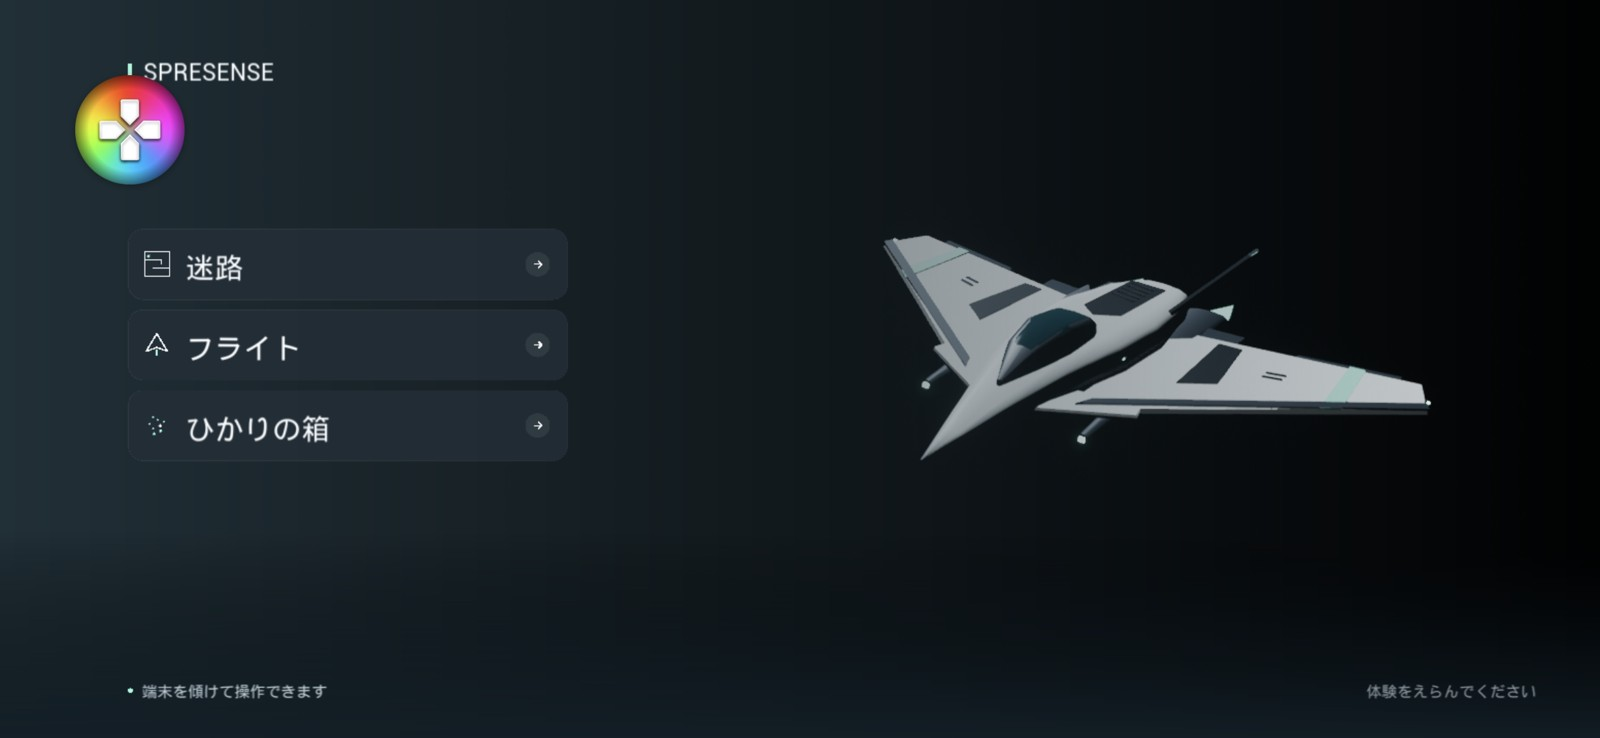
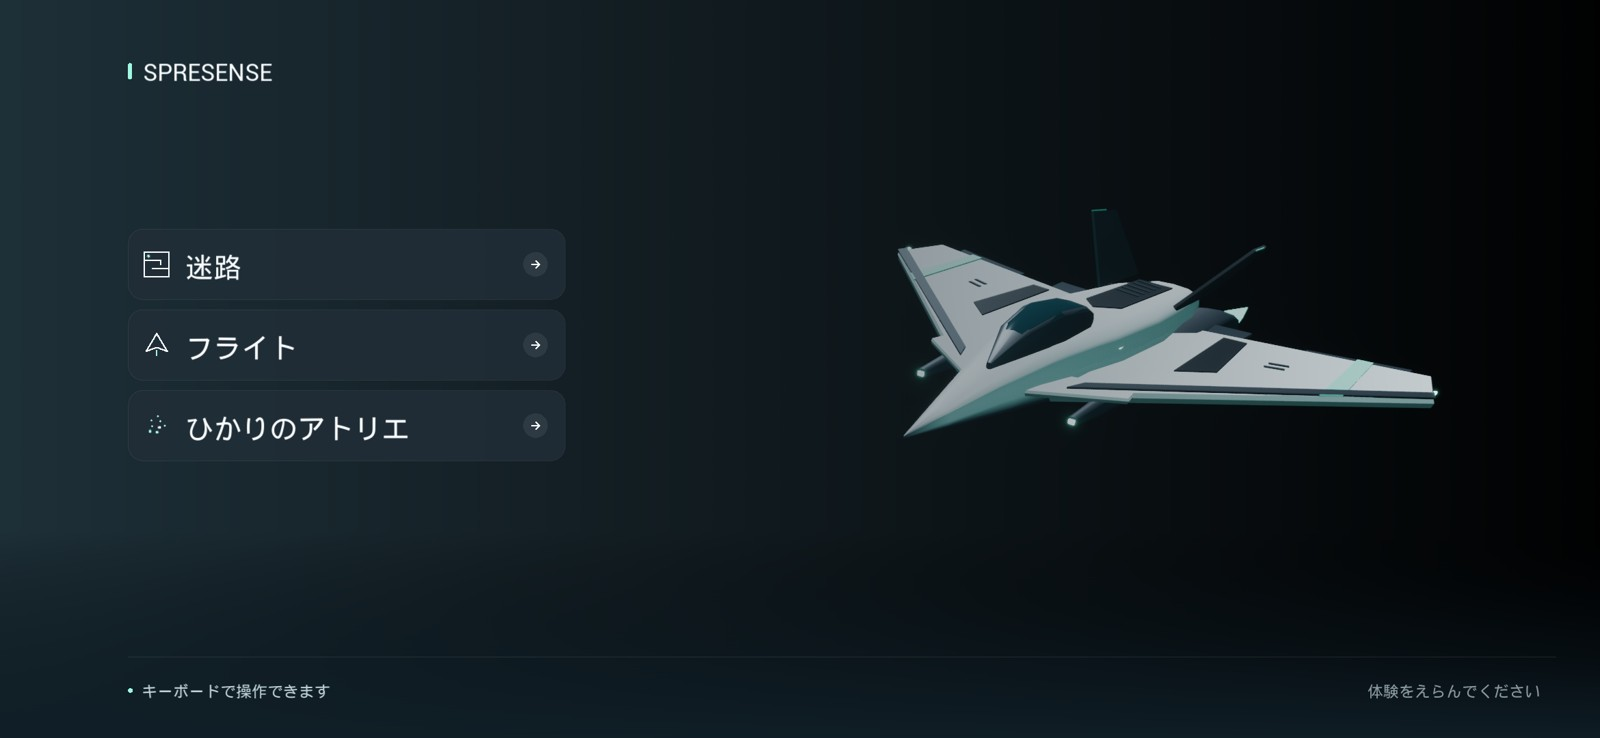
Rename light experience to Hikari Atelier and double default particle budget

diff --git a/Tools/ReviewLightBoxBenchmark.py b/Tools/ReviewLightBoxBenchmark.py
@@ -40,6 +40,6 @@ def main():
     for j in range(0,len(text),49):d.text((x+10,y+279+(j//49)*22),text[j:j+49],font=small,fill='#c7d0d8')
   im.save(sheets/f'{page+1:02d}.jpg',quality=92)
  payload=json.dumps(summary,ensure_ascii=False).replace('</','<\\/')
- page=r'''<!doctype html><html lang="ja"><meta charset="utf-8"><meta name="viewport" content="width=device-width,initial-scale=1"><title>ひかりの箱・100指示レビュー</title><style>body{margin:0;background:#09141e;color:#dce9ef;font:16px/1.8 system-ui,sans-serif}main{max-width:1500px;margin:40px auto;padding:20px}h1{font-size:36px}p{color:#b7cbd5}button,select,input{font:inherit;background:#203c47;color:#edf8f7;border:1px solid #446775;border-radius:8px;padding:7px;margin:5px}section{display:grid;grid-template-columns:repeat(auto-fit,minmax(500px,1fr));gap:18px}article{padding:18px;background:#132936;border-radius:14px;border:1px solid #2b4854}img{width:100%;border-radius:8px}a{color:#89ddd2}pre{white-space:pre-wrap;font-size:13px}.bad{color:#f4b578}.ok{color:#86dfbd}.note{background:#283d3d;padding:12px;border-radius:10px}@media(max-width:600px){section{display:block}article{margin:15px 0}}</style><main><h1>100の指示で、景色を検証する</h1><p>実際のOpenClaw＋Copilotの返答をアプリと同じパーサー・描画で実行。形式と要求チェック、画像レビューを区別しています。画像はWindows UEで中立姿勢・同じ時刻に再生した結果です。</p><div id="summary"></div><p class="note">クレジットは元のusageと公表単価からの推定。確定請求額・残高ではありません。未取得は0消費と扱いません。形式の受理は、見た目や意味の成功を保証しません。コントラストなどは画像での確認が必要です。</p><label>分類<select id="cat"><option value="">すべて</option></select></label><label><input type="checkbox" id="bad">要確認のみ</label><input id="search" placeholder="指示を検索"><section id="cards"></section><script>const data=PAYLOAD;document.getElementById('summary').innerHTML=`<strong>${data.round}：${data.completed}/100件 / 形式受理 ${data.accepted}件 / ${data.calls}呼出（修正${data.repairs}回） / 推定 ${data.creditsKnown.toFixed(4)}cr / 利用量未取得 ${data.creditsUnknown}件</strong><p><a href="summary.csv">CSV</a> · <a href="summary.json">全記録JSON</a></p>`;const cat=document.getElementById('cat');for(const c of [...new Set(data.rows.map(x=>x.category))])cat.add(new Option(c,c));function render(){const query=document.getElementById('search').value;document.getElementById('cards').innerHTML=data.rows.filter(x=>(!cat.value||x.category===cat.value)&&(!document.getElementById('bad').checked||!x.accepted||x.failedChecks.length||x.visual?.rating<3)&&(!query||x.words.includes(query))).map(x=>`<article><div>${String(x.id).padStart(3,'0')} · ${x.category}</div><h3>${x.words.replaceAll('<','&lt;')}</h3><div class="${x.accepted?'ok':'bad'}">${x.accepted?'形式受理':'検証で拒否'} / 推定${x.credits.toFixed(4)}cr / ${x.seconds.toFixed(1)}秒</div>${x.tag?`<img id="p${x.id}" src="${x.tag}_t1.png"><button onclick="document.getElementById('p${x.id}').src='${x.tag}_t0.png'">0.2秒</button><button onclick="document.getElementById('p${x.id}').src='${x.tag}_t1.png'">2.5秒</button><button onclick="document.getElementById('p${x.id}').src='${x.tag}_t2.png'">6秒</button>`:'<p>不正な返答のため、旧景色への置き換えで成功扱いにしていません。</p>'}<p class="bad">${x.failedChecks.length?'要求の要確認：'+x.failedChecks.join(', '):''}</p>${x.visual?`<p class="note">画像レビュー ${x.visual.rating}/5：${x.visual.comment}</p>`:'<p>個別の画像レビューは未記入。</p>'}<details><summary>計測値</summary><pre>${JSON.stringify(x.metrics,null,2)}</pre></details></article>`).join('')}for(const e of ['cat','bad','search'])document.getElementById(e).addEventListener('input',render);render();</script></main></html>'''.replace('PAYLOAD',payload)
+ page=r'''<!doctype html><html lang="ja"><meta charset="utf-8"><meta name="viewport" content="width=device-width,initial-scale=1"><title>ひかりのアトリエ・100指示レビュー</title><style>body{margin:0;background:#09141e;color:#dce9ef;font:16px/1.8 system-ui,sans-serif}main{max-width:1500px;margin:40px auto;padding:20px}h1{font-size:36px}p{color:#b7cbd5}button,select,input{font:inherit;background:#203c47;color:#edf8f7;border:1px solid #446775;border-radius:8px;padding:7px;margin:5px}section{display:grid;grid-template-columns:repeat(auto-fit,minmax(500px,1fr));gap:18px}article{padding:18px;background:#132936;border-radius:14px;border:1px solid #2b4854}img{width:100%;border-radius:8px}a{color:#89ddd2}pre{white-space:pre-wrap;font-size:13px}.bad{color:#f4b578}.ok{color:#86dfbd}.note{background:#283d3d;padding:12px;border-radius:10px}@media(max-width:600px){section{display:block}article{margin:15px 0}}</style><main><h1>100の指示で、景色を検証する</h1><p>実際のOpenClaw＋Copilotの返答をアプリと同じパーサー・描画で実行。形式と要求チェック、画像レビューを区別しています。画像はWindows UEで中立姿勢・同じ時刻に再生した結果です。</p><div id="summary"></div><p class="note">クレジットは元のusageと公表単価からの推定。確定請求額・残高ではありません。未取得は0消費と扱いません。形式の受理は、見た目や意味の成功を保証しません。コントラストなどは画像での確認が必要です。</p><label>分類<select id="cat"><option value="">すべて</option></select></label><label><input type="checkbox" id="bad">要確認のみ</label><input id="search" placeholder="指示を検索"><section id="cards"></section><script>const data=PAYLOAD;document.getElementById('summary').innerHTML=`<strong>${data.round}：${data.completed}/100件 / 形式受理 ${data.accepted}件 / ${data.calls}呼出（修正${data.repairs}回） / 推定 ${data.creditsKnown.toFixed(4)}cr / 利用量未取得 ${data.creditsUnknown}件</strong><p><a href="summary.csv">CSV</a> · <a href="summary.json">全記録JSON</a></p>`;const cat=document.getElementById('cat');for(const c of [...new Set(data.rows.map(x=>x.category))])cat.add(new Option(c,c));function render(){const query=document.getElementById('search').value;document.getElementById('cards').innerHTML=data.rows.filter(x=>(!cat.value||x.category===cat.value)&&(!document.getElementById('bad').checked||!x.accepted||x.failedChecks.length||x.visual?.rating<3)&&(!query||x.words.includes(query))).map(x=>`<article><div>${String(x.id).padStart(3,'0')} · ${x.category}</div><h3>${x.words.replaceAll('<','&lt;')}</h3><div class="${x.accepted?'ok':'bad'}">${x.accepted?'形式受理':'検証で拒否'} / 推定${x.credits.toFixed(4)}cr / ${x.seconds.toFixed(1)}秒</div>${x.tag?`<img id="p${x.id}" src="${x.tag}_t1.png"><button onclick="document.getElementById('p${x.id}').src='${x.tag}_t0.png'">0.2秒</button><button onclick="document.getElementById('p${x.id}').src='${x.tag}_t1.png'">2.5秒</button><button onclick="document.getElementById('p${x.id}').src='${x.tag}_t2.png'">6秒</button>`:'<p>不正な返答のため、旧景色への置き換えで成功扱いにしていません。</p>'}<p class="bad">${x.failedChecks.length?'要求の要確認：'+x.failedChecks.join(', '):''}</p>${x.visual?`<p class="note">画像レビュー ${x.visual.rating}/5：${x.visual.comment}</p>`:'<p>個別の画像レビューは未記入。</p>'}<details><summary>計測値</summary><pre>${JSON.stringify(x.metrics,null,2)}</pre></details></article>`).join('')}for(const e of ['cat','bad','search'])document.getElementById(e).addEventListener('input',render);render();</script></main></html>'''.replace('PAYLOAD',payload)
  (folder/'index.html').write_text(page,encoding='utf-8');print({k:v for k,v in summary.items() if k!='rows'})
 if __name__=='__main__':main()

diff --git a/Source/SpresenseMaze/LightBoxStyle.cpp b/Source/SpresenseMaze/LightBoxStyle.cpp
@@ -408,7 +408,7 @@ bool FLightBoxStyle::Parse(const FString& Json, FLightBoxStyle& Out, FString& Er
 		return true;
 	};
 	if (!Extended()) { if (Diagnostic) { *Diagnostic = Context; } Error = TEXT("景色の形や数を読み取れませんでした。少し分けてお願いしてください"); return false; }
-	if(!Candidate.bPointCloud)Candidate.PointCount=FMath::Max(65536,Candidate.PointCount);
+	if(!Candidate.bPointCloud)Candidate.PointCount=FMath::Max(DefaultPointCount,Candidate.PointCount);
 	Candidate.bPointCloud=true;Candidate.bPointFloor=false;
 	Out = Candidate; // Atomic: a malformed response never partly changes the scene.
 	Error.Reset();
@@ -462,7 +462,7 @@ FString FLightBoxStyle::Instruction(const FLightBoxStyle& Current)
         "For unfamiliar species/objects, construct the shape with loft/lathe/curves instead of stretching a mismatched built-in animal. loft: sections:[[x,halfWidth,halfHeight],...] 3..24 strictly ascending x within[-.5,.5], width/height0...5, first and last width/height0 to close. Local longitudinal axis+X, cross-section YZ; size scales it. Use >=7 sections for a broad head and tapering tail; curve optionally bends centreline using local cm (Y/Z offsets). Connect fins/leaves/panels with polygon outline and hierarchy. All samples are mathematical point targets, no solid model is rendered. "
         "Surface markings OPTIONAL: pattern:none/spots/stripes/patches,patternColor:#RRGGBB,patternScale:2..32,belly:true/false,bellyColor:#RRGGBB. Markings colour individual particles in local coordinates. Use spots on a continuous body instead of hundreds of floating spot spheres. Reserve separate geometry for distinctive face/eye patches, mouths, fins and ears. Before output, check silhouette from both front and side, symmetry where appropriate, physical contacts and hierarchy, readable eyes/mouth, correct tail/wing orientation and enough contrast. Limit scene to the requested subject and useful context. "
         "REQUIRED base: schema:3,title:Japanese 1..24 chars,color/accent:#RRGGBB,motion:.2..2,viscosity:0..1,swirl:-2..2,attraction:0..1,tilt:0..2,glow:.3..2,trail:0..1,shakeThreshold:1.3..3,shake:scatter/gather/none,note:Japanese<=100 chars. "
-		"PARTICLE-ONLY RENDERER: ALL scenery, animals, water, sky, suns and lights are drawn exclusively as discrete camera-facing particles. No solid mesh, floor, backdrop, grid, reflection or alternate renderer exists. Normally pointCloud:{enabled:true,count:65536,floor:false,duration:3,arc:22,twist:.15,stagger:.18}. Count is the TOTAL ceiling, up to1000000; normally32768..131072. objects are mathematical target surfaces, NEVER rendered models. Their animation and motion channels move the particles themselves, including bird wing deformation, waves, flowing tubes and hierarchy motion. particles.count0..1024 adds freely simulated point lights within the same total budget; use for fireflies, stars, snow, flock etc, or0 for a pure sculpture. Large surfaces should be focus:false so they do not consume the particles needed by the main subject. No automatic solid ground is drawn; add a particle surface object only when requested. Background colour only tints sparse distant points; use coloured particles for sky/sunset, never a backdrop sheet. "
+		"PARTICLE-ONLY RENDERER: ALL scenery, animals, water, sky, suns and lights are drawn exclusively as discrete camera-facing particles. No solid mesh, floor, backdrop, grid, reflection or alternate renderer exists. Normally pointCloud:{enabled:true,count:131072,floor:false,duration:3,arc:22,twist:.15,stagger:.18}. Count is the TOTAL ceiling, up to1000000; Default to131072 for a NEW sculpture, even if the previous scene used65536. Preserve the existing budget on edits unless the user asks to change it. Smaller budgets are allowed when requested or deliberately chosen for a sparse design; independent free lights only use particles.count0..1024. Never duplicate sparse lights just to fill the sculpture budget. objects are mathematical target surfaces, NEVER rendered models. Their animation and motion channels move the particles themselves, including bird wing deformation, waves, flowing tubes and hierarchy motion. particles.count0..1024 adds freely simulated point lights within the same total budget; use for fireflies, stars, snow, flock etc, or0 for a pure sculpture. Large surfaces should be focus:false so they do not consume the particles needed by the main subject. No automatic solid ground is drawn; add a particle surface object only when requested. Background colour only tints sparse distant points; use coloured particles for sky/sunset, never a backdrop sheet. "
 		"A new object noun by itself means build that recognizable complete subject, not just recolour the previous object. You may invent shapes using lathe profile, polygon outlines and curved tubes. lathe requires profile:[[height,radius],...] with 3..32 strictly increasing heights within -.5...5, radius0...5; first/last radius0 to close the body. size scales the profile. Optional curve points (local cm) offset the lathe centreline, allowing curved fruit, bottles, vases, vegetables, limbs. Compose distinctive body, cap, stem and leaves with separate IDs/colours. No predetermined noun-to-preset mapping exists. "
 		"Orient each part for its actual 3D contact surface: polygon/star/leaf lie in localXY with thicknessZ, so rotation[0,0,0] makes a horizontal cap. The X90 rule is ONLY for front-facing silhouettes, never an automatic rule for caps. Use parent anchors or explicit contact points to connect stems/caps/leaves, including when a body is tilted. Preserve distinctive proportions and curvature rather than replacing every subject with a round sphere. "
 		"particles:{count:int0..1024,size:.25..5,behavior:drift/flock/orbit/rain/snow/fire/fountain/fireworks/form,formation:volume/sphere/ring/heart/star/helix/galaxy/grid/wave/torus/cube/fish/bird/butterfly/flower/custom,"

diff --git a/Tools/ReviewLightBoxPDCA.py b/Tools/ReviewLightBoxPDCA.py
@@ -55,7 +55,7 @@ def main():
     (root / 'pdca-summary.json').write_text(json.dumps(summary, ensure_ascii=False, indent=2), encoding='utf-8')
     table = ''.join(f'<tr><td><a href="{html.escape(n)}/index.html">{html.escape(n)}</a></td><td>{d["completed"]}</td><td>{d["accepted"]}</td><td>{d["calls"]}（再送{d["repairs"]}）</td><td>{d["creditsKnown"]:.4f} cr</td><td>{d["reviewed"]}</td></tr>' for n, d in summary['rounds'].items())
     payload = json.dumps({'rounds': rounds, 'cases': cases}, ensure_ascii=False).replace('</', '<\\/')
-    document = '''<!doctype html><html lang="ja"><meta charset="utf-8"><meta name="viewport" content="width=device-width,initial-scale=1"><title>ひかりの箱・100指示と改善実験</title>
+    document = '''<!doctype html><html lang="ja"><meta charset="utf-8"><meta name="viewport" content="width=device-width,initial-scale=1"><title>ひかりのアトリエ・100指示と改善実験</title>
 <style>body{background:#0a1520;color:#dbe9ee;font:16px/1.8 system-ui;margin:0}main{max-width:1500px;margin:auto;padding:32px}h1{font-size:34px}h2{margin-top:40px}a{color:#8edbce}table{border-collapse:collapse;width:100%}td,th{padding:10px;text-align:left;border-bottom:1px solid #3a505d}.note,article{background:#16303e;border-radius:12px;padding:20px;margin:16px 0}button,input,select{font:inherit;color:#deeeef;background:#203e4e;border:1px solid #496573;padding:7px;border-radius:7px}#compare{display:grid;grid-template-columns:repeat(auto-fit,minmax(350px,1fr));gap:15px}img{width:100%}.bad{color:#ffbe85}.muted{color:#b0c5d0}</style><main>
 <h1>100の指示を実行し、景色を改善する</h1>
 <p>実際のAndroid内OpenClaw＋GitHub Copilot（gpt-6-luna）に100種類の日本語指示を送り、UEの本番と同じ読み取り・描画処理で実行。問題を直し、50件、40件の比較実験を行いました。最後に40件を仕上げ確認（36件は同じ返答の再生、4件は再生成）しています。</p>

diff --git a/Source/SpresenseMaze/Tests/LightBoxExperienceTests.cpp b/Source/SpresenseMaze/Tests/LightBoxExperienceTests.cpp
@@ -7,6 +7,23 @@
 #include "Misc/Base64.h"
 #include "Misc/FileHelper.h"
 #include "HAL/FileManager.h"
+#include "Dom/JsonObject.h"
+#include "Serialization/JsonReader.h"
+#include "Serialization/JsonSerializer.h"
+
+IMPLEMENT_SIMPLE_AUTOMATION_TEST(FLightBoxDefaultDensityTest,"SpresenseMaze.LightBox.DefaultDensityAndSparseScenes",EAutomationTestFlags::EditorContext|EAutomationTestFlags::EngineFilter)
+bool FLightBoxDefaultDensityTest::RunTest(const FString&)
+{
+    FLightBoxStyle S;TestEqual(TEXT("New scenes default to twice the previous density"),S.PointCount,131072);
+    S.Count=0;S.Background=FLinearColor::Black;S.Objects.Add(FLightBoxObject());
+    TestEqual(TEXT("A default sculpture uses the new full budget"),LightBoxPoints::Sample(S).Num(),131072);
+    FLightBoxStyle Parsed;FString Error;TSharedPtr<FJsonObject> Json;
+    FJsonSerializer::Deserialize(TJsonReaderFactory<>::Create(S.ToJson()),Json);Json->RemoveField(TEXT("pointCloud"));FString Missing;FJsonSerializer::Serialize(Json.ToSharedRef(),TJsonWriterFactory<>::Create(&Missing));
+    TestTrue(TEXT("Descriptions without an explicit budget still open"),FLightBoxStyle::Parse(Missing,Parsed,Error));TestEqual(TEXT("Omitted budget uses the new default"),Parsed.PointCount,131072);
+    S.PointCount=32768;TestTrue(TEXT("Explicit smaller saved scenes still open"),FLightBoxStyle::Parse(S.ToJson(),Parsed,Error));TestEqual(TEXT("A saved smaller budget is preserved"),Parsed.PointCount,32768);
+    S=FLightBoxStyle();S.Count=24;TestEqual(TEXT("A few independent lights are not multiplied to the sculpture budget"),LightBoxPoints::Sample(S).Num(),24);
+    return true;
+}
 
 IMPLEMENT_SIMPLE_AUTOMATION_TEST(FLightBoxDifferenceTest,"SpresenseMaze.LightBox.DifferenceKeepsUnchangedParts",EAutomationTestFlags::EditorContext|EAutomationTestFlags::EngineFilter)
 bool FLightBoxDifferenceTest::RunTest(const FString&)

diff --git a/Source/SpresenseMaze/Tests/LightBoxTests.cpp b/Source/SpresenseMaze/Tests/LightBoxTests.cpp
@@ -86,7 +86,7 @@ bool FLightBoxParticleMigrationTest::RunTest(const FString&)
     auto S=FLightBoxStyle::Example(8);TSharedPtr<FJsonObject> J;FJsonSerializer::Deserialize(TJsonReaderFactory<>::Create(S.ToJson()),J);
     J->GetObjectField(TEXT("pointCloud"))->SetBoolField(TEXT("enabled"),false);J->GetObjectField(TEXT("pointCloud"))->SetNumberField(TEXT("count"),256);J->GetObjectField(TEXT("pointCloud"))->SetBoolField(TEXT("floor"),true);
     FString Old;FJsonSerializer::Serialize(J.ToSharedRef(),TJsonWriterFactory<>::Create(&Old));FLightBoxStyle Read;FString Error;
-    TestTrue(TEXT("Previously saved scenes still open"),FLightBoxStyle::Parse(Old,Read,Error));TestTrue(TEXT("Old solid renderer is migrated to particles"),Read.bPointCloud);TestFalse(TEXT("Old floor cannot reactivate solid drawing"),Read.bPointFloor);TestEqual(TEXT("Unused legacy point budget is raised so the migrated scene remains recognizable"),Read.PointCount,65536);TestEqual(TEXT("Shape descriptions are retained"),Read.Objects.Num(),S.Objects.Num());return true;
+    TestTrue(TEXT("Previously saved scenes still open"),FLightBoxStyle::Parse(Old,Read,Error));TestTrue(TEXT("Old solid renderer is migrated to particles"),Read.bPointCloud);TestFalse(TEXT("Old floor cannot reactivate solid drawing"),Read.bPointFloor);TestEqual(TEXT("Unused legacy point budget is raised so the migrated scene remains recognizable"),Read.PointCount,FLightBoxStyle::DefaultPointCount);TestEqual(TEXT("Shape descriptions are retained"),Read.Objects.Num(),S.Objects.Num());return true;
 }
 
 IMPLEMENT_SIMPLE_AUTOMATION_TEST(FLightBoxParticleComponentsTest,"SpresenseMaze.LightBox.ParticleOnlyComponents",EAutomationTestFlags::EditorContext|EAutomationTestFlags::EngineFilter)

diff --git a/Tools/ReviewPointCloudAndroid.py b/Tools/ReviewPointCloudAndroid.py
@@ -11,7 +11,7 @@ ROOT=Path(__file__).resolve().parents[1]
 BASE='/sdcard/Android/data/com.lati.spresensemaze/files/UnrealGame/SpresenseMaze/SpresenseMaze/Saved'
 def adb(*args,check=True):return subprocess.run(['adb',*map(str,args)],capture_output=True,check=check)
 def main():
-    p=argparse.ArgumentParser();p.add_argument('--counts',default='10000,65536,100000,300000,1000000');p.add_argument('--out',type=Path,default=ROOT/'Saved/PointSculpture/phone');a=p.parse_args()
+    p=argparse.ArgumentParser();p.add_argument('--counts',default='10000,65536,100000,131072,300000,1000000');p.add_argument('--out',type=Path,default=ROOT/'Saved/PointSculpture/phone');a=p.parse_args()
     a.out.mkdir(parents=True,exist_ok=True);results=[]
     adb('pull',BASE+'/LightBox/Journal/journal.json',a.out/'journal-before.json',check=False)
     adb('shell','mkdir','-p',BASE+'/PointCloudBench')

diff --git a/Tools/ReviewParticleScenesAndroid.py b/Tools/ReviewParticleScenesAndroid.py
@@ -30,7 +30,7 @@ def main():
             else:raise TimeoutError('Missing particle scene report: '+name)
             row=json.loads(path.read_text(encoding='utf-8-sig'));row['case']=name
             assert row['particleOnly'] and row['solidSceneComponents']==0,row
-            expected=max(65536,value['pointCloud']['count']) if name=='legacy-gulls' else value['pointCloud']['count']
+            expected=max(131072,value['pointCloud']['count']) if name=='legacy-gulls' else value['pointCloud']['count']
             assert row['instances']==row['points']==expected,row
             if name.startswith(('gulls','fireflies')):assert row['animatedTarget'] and row['controlTravel']>1,row
             adb('shell','screencap','-p',BASE+'/ParticleScenesReview/screen.png');adb('pull',BASE+'/ParticleScenesReview/screen.png',a.out/(name+'.png'))

diff --git a/Tools/PointCloud/fixtures.py b/Tools/PointCloud/fixtures.py
@@ -4,7 +4,7 @@ import copy
 def object(id,shape,color,position,size,**kw):
     return dict(id=id,shape=shape,color=color,position=position,size=size,**kw)
 
-def scene(subject='eggplant',count=65536):
+def scene(subject='eggplant',count=131072):
     value=dict(schema=3,title=subject,color='#8B4BCB',accent='#84CA54',motion=1,viscosity=.35,swirl=.3,attraction=.5,tilt=1,glow=.65,trail=0,shakeThreshold=1.65,shake='scatter',note='粒が動き、立体の表面を構成します。',particles=dict(count=0),world=dict(background='#030712',floor='#101520',ambient=1,bloom=.35,box=False,keyDirection=[-40,-35,0]),camera=dict(autoFrame=True,yaw=-8,pitch=24,zoom=1,fill=.76),pointCloud=dict(enabled=True,count=count,floor=False,duration=5,arc=65,twist=1.25,stagger=.35))
     if subject=='eggplant':
         value['title']='粒のなす'

diff --git a/Source/SpresenseMaze/LightBoxStyle.h b/Source/SpresenseMaze/LightBoxStyle.h
@@ -65,6 +65,7 @@ struct FLightBoxObject
 /** A bounded scene description. Remote responses can only change these values. */
 struct FLightBoxStyle
 {
+    static constexpr int32 DefaultPointCount=131072;
 	FString Title = TEXT("星あかり");
 	FLinearColor Color = FLinearColor(0.22f, 0.8f, 1.f);
 	FLinearColor Accent = FLinearColor(1.f, 0.62f, 0.3f);
@@ -118,7 +119,7 @@ struct FLightBoxStyle
 	TArray<FLightBoxObject> Objects;
 	bool bPointCloud = true;
 	bool bPointFloor = false;
-	int32 PointCount = 65536;
+	int32 PointCount = DefaultPointCount;
 	float AssembleSeconds = 5, AssembleArc = 65, AssembleTwist = 1.25f, AssembleStagger = .35f;
 
 	static FLightBoxStyle Preset(int32 Index);

diff --git a/Source/SpresenseMaze/TitleGameMode.cpp b/Source/SpresenseMaze/TitleGameMode.cpp
@@ -191,7 +191,7 @@ void ATitleHUD::DrawHUD()
 	const float CH = 104 * S, Gap = 14 * S, Y = H * 0.31f;
 	DrawCard(TEXT("Maze"), TEXT("迷路"), Left, Y, CW, CH, 0);
 	DrawCard(TEXT("Flight"), TEXT("フライト"), Left, Y + CH + Gap, CW, CH, 1);
-	DrawCard(TEXT("LightBox"), TEXT("ひかりの箱"), Left, Y + (CH + Gap) * 2, CW, CH, 2);
+	DrawCard(TEXT("LightBox"), TEXT("ひかりのアトリエ"), Left, Y + (CH + Gap) * 2, CW, CH, 2);
 	DrawRect(Paper.CopyWithNewOpacity(0.1f), Left, H * 0.89f, W - Left - 64 * S, S);
 
 	if (UAttitudeInputSubsystem* Attitude = GetGameInstance()->GetSubsystem<UAttitudeInputSubsystem>())

diff --git a/README.md b/README.md
@@ -2,11 +2,11 @@
 
 Spresenseやスマートフォンの傾きで遊ぶ、Android向けの3つの体験です。対象実機は **Xperia 1 VII** です。
 
-![トップ画面。迷路・フライト・ひかりの箱を選べます](Docs/images/readme-title.jpg)
+![トップ画面。迷路・フライト・ひかりのアトリエを選べます](Docs/images/readme-title.jpg)
 
 ## 1. インストール
 
-[**APKをダウンロード**](https://github.com/NaitoMitsuharu/spresesneMaze/releases/download/v0.5.0-preview.2/SpresenseMaze-arm64.apk)して、Android端末で開きます。Android 14以上・arm64向けです。別のゲームデータは不要です。
+[**APKをダウンロード**](https://github.com/NaitoMitsuharu/spresesneMaze/releases/download/v0.5.0-preview.3/SpresenseMaze-arm64.apk)して、Android端末で開きます。Android 14以上・arm64向けです。別のゲームデータは不要です。
 
 PCから更新する場合は、記録を残したまま次のコマンドを実行できます。
 
@@ -24,11 +24,11 @@ Spresenseを使う場合は、先に[ServiceアプリとUSB接続の準備](Docs
 |---|---|
 | **迷路** | 傾けてボールを転がし、ゴールを目指します |
 | **フライト** | 傾けて操縦し、リングを通過します。射撃は自動です |
-| **ひかりの箱** | 声や文字で景色を作ります。鳥や海もすべて粒子です |
+| **ひかりのアトリエ** | 声や文字で景色を作ります。鳥や海もすべて粒子です |
 
 ## 3. 声・文字で景色を作る
 
-![粒子でできたパンダの景色。下にマイクと入力欄、右上にメニュー、右下に説明と利用量があります](Docs/images/particle-experience-panda.jpg)
+![131,072粒でできたなすの景色。下にマイクと入力欄、右上にメニュー、右下に説明と利用量があります](Docs/images/readme-atelier.jpg)
 
 - **声**：マイクを押して話します。聞き取りが終わると自動で作成します。
 - **文字**：下の入力欄に書き、キーボードを閉じて **→** を押します。
@@ -55,11 +55,11 @@ Spresenseを使う場合は、先に[ServiceアプリとUSB接続の準備](Docs
 
 **声・文字での生成と「造形を磨く」はAIを利用します。** 見本・カメラ操作・保存した景色の呼び出しはAIへの接続なしで使えます。
 
-## 新規Android端末で「ひかりの箱」を使う
+## 新規Android端末で「ひかりのアトリエ」を使う
 
 初回だけ、同じ端末の **Termux → OpenClaw → Copilot** を準備します。
 
-1. [初回セットアップ](Docs/SetupAndDevelopment.md#新規android端末でひかりの箱を使う)に沿って、ログインと端末内サービスの起動を行います。
+1. [初回セットアップ](Docs/SetupAndDevelopment.md#新規android端末でひかりのアトリエを使う)に沿って、ログインと端末内サービスの起動を行います。
 2. アプリの **☰ → 設定** で、接続先 `http://127.0.0.1:18789` と、起動時に表示された認証キーを保存します。
 3. マイクを許可し、SIMまたはWi-Fiにつないで話しかけます。
 
@@ -76,8 +76,9 @@ bash start-lightbox.sh
 
 ## 粒子数について
 
-標準は **65,536粒**、設定できる上限は **100万粒**です。「粒数だけ10万にして」のように指定できます。
-複雑な景色ではAIが多い粒数を選ぶ場合もありますが、物体を増やすだけで自動加算する仕組みではありません。
+標準は **131,072粒**、設定できる上限は **100万粒**です。「粒数だけ10万にして」のように指定できます。
+少ない粒数を指定した場合、AIが疎らな表現を選んだ場合、以前に保存した景色を呼び出した場合は、標準より少ない粒数でも表示します。保存済みの粒数は変更しません。
+物体を増やすだけで粒数を自動加算する仕組みではありません。
 ホタルなど少数で描く景色もあり、減らす途中は消える前の粒も表示数に含みます。100万粒は動作が重くなるため、通常は標準値から試してください。
 
 ## 詳しく知りたいとき
